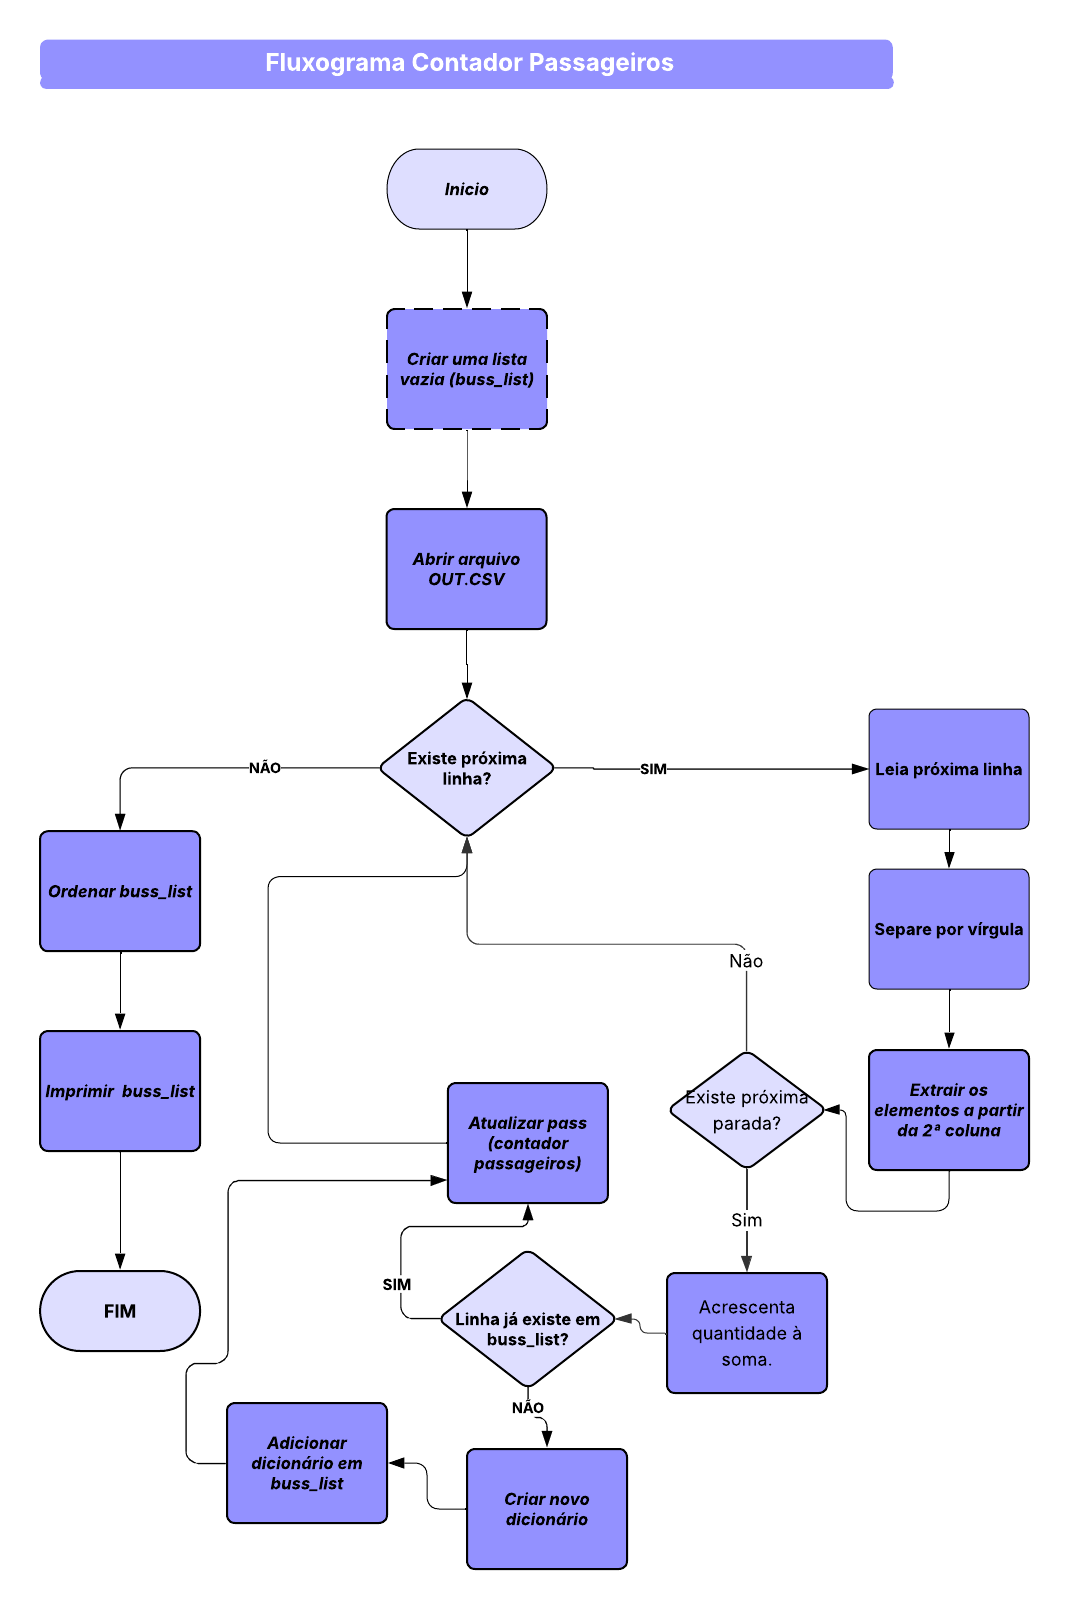
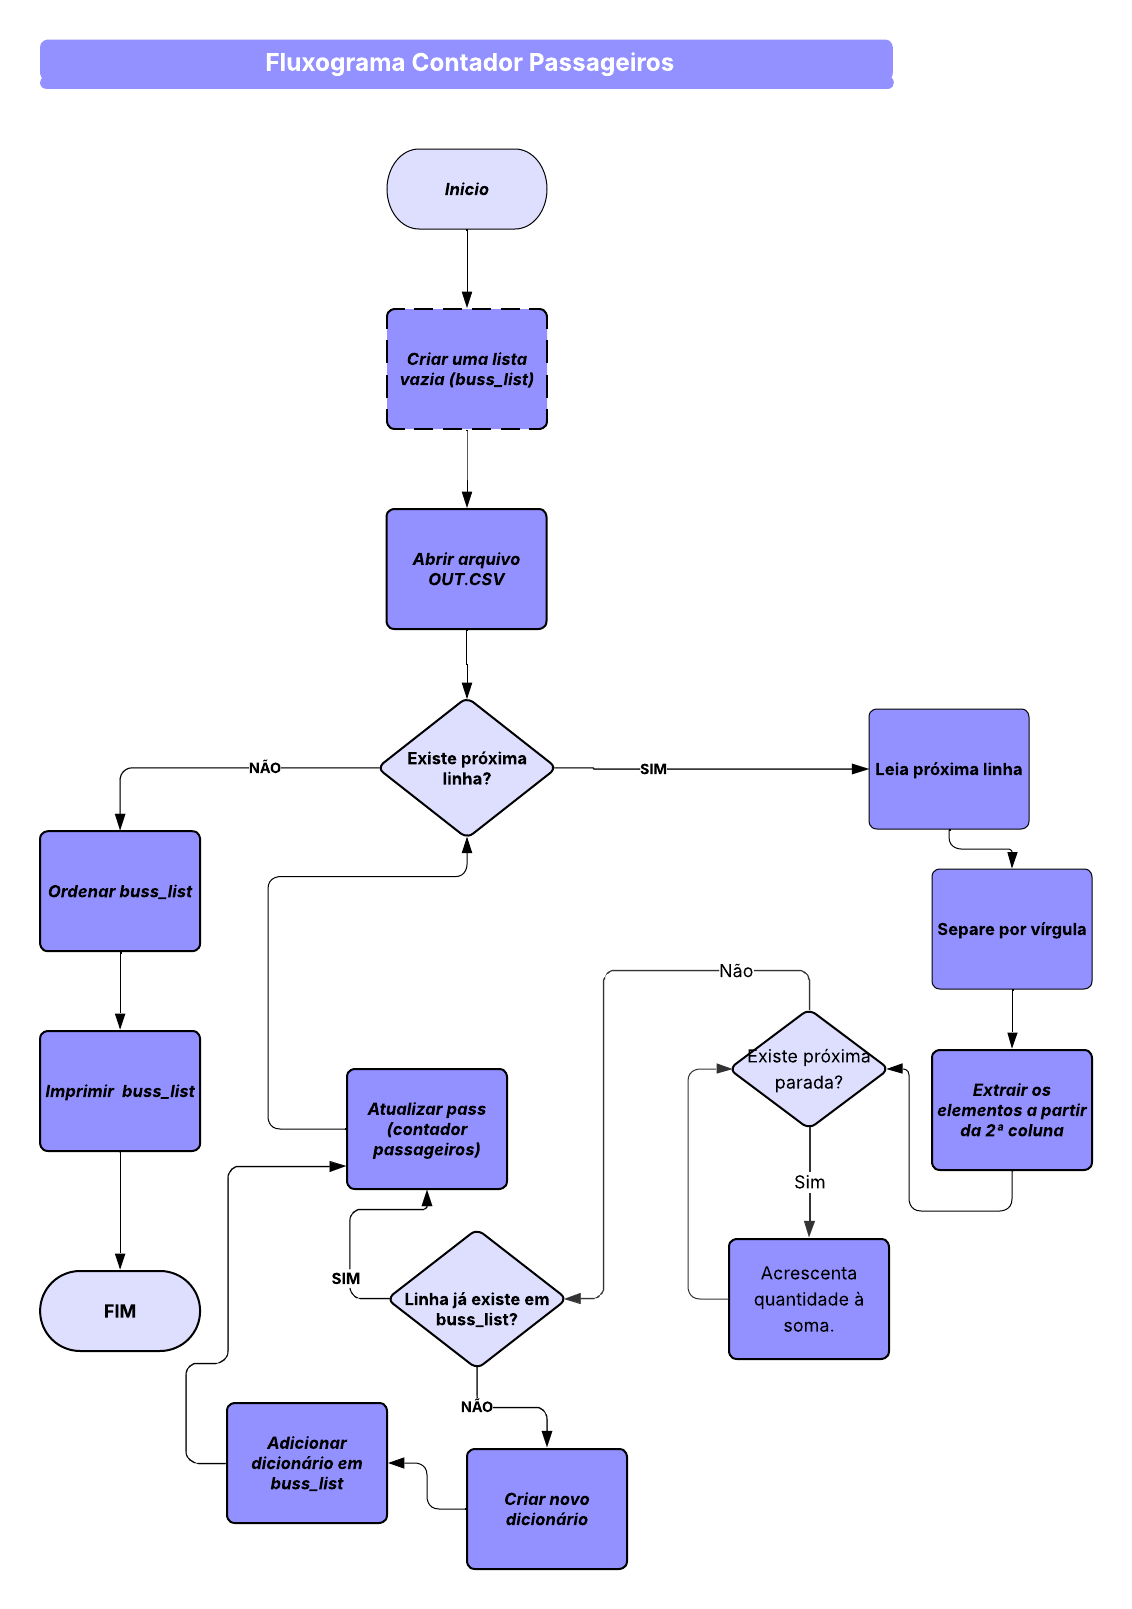
att read and fluxo

diff --git a/README.md b/README.md
@@ -1,5 +1,7 @@
 # ***Contador de Passageiros***
 
+>Peterson Ruivo, Victor Aires
+
 ## 1. Justificativa
 > A empresa de transporte do seu município, identificou que em horários de maior
 movimento, algumas linhas estavam sobrecarregadas e por isso deseja ampliar a
